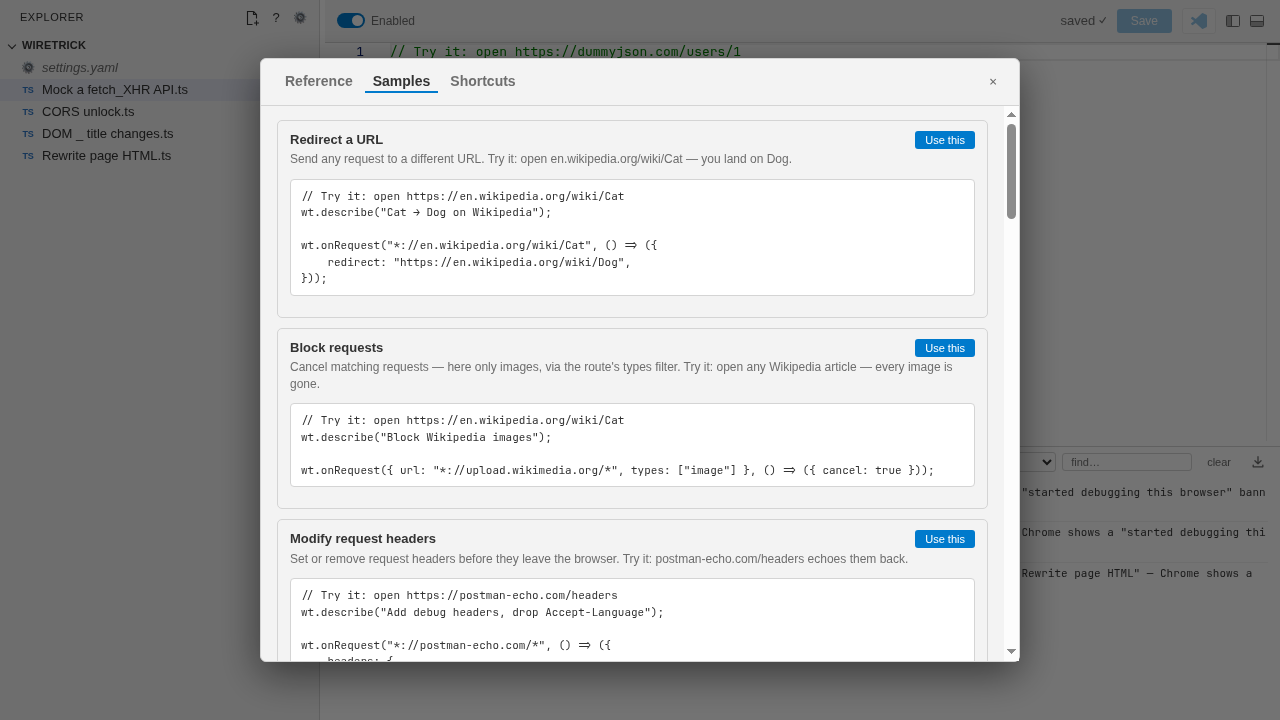
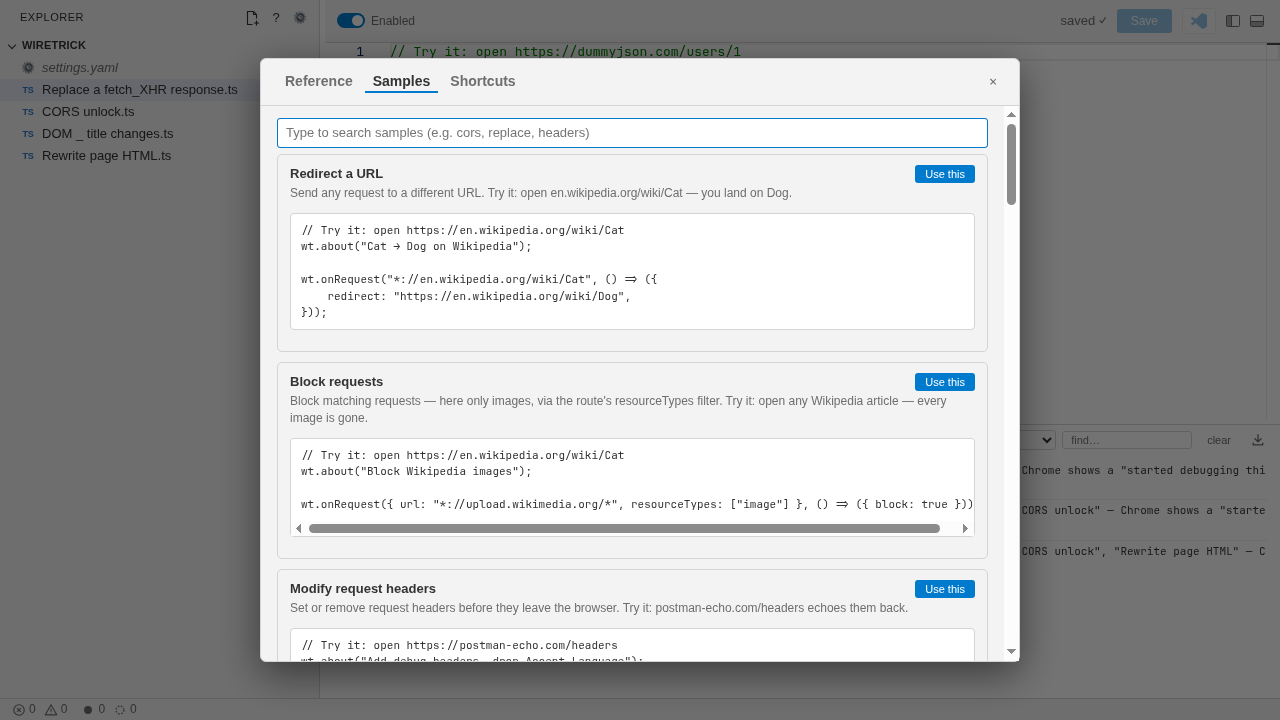
Align samples, tests and doc screenshots with renamed terms
- Block sample: "Block matching requests … resourceTypes filter"
- Replace sample: wt.about("Replace the users API response")
- MV3 e2e expects "debugger strategy active"; test labels say library
- screenshots seed the "debugger" strategy; regenerate docs/shots

diff --git a/test/mv3.e2e.ts b/test/mv3.e2e.ts
@@ -567,7 +567,7 @@ try {
     await mgr.evaluate(() => new Promise((r) => chrome.runtime.sendMessage({ type: "deleteScript", id: "s_doccold" }, r)));
     const logText = await mgr.evaluate(() => [...document.querySelectorAll("#log-entries .log-line")].map((l) => l.textContent || "").join("\n"));
     if (process.env.DBG) console.log(logText.split("\n").filter((l: string) => /Tier C|cdp|debugger|attach|requestPaused/i.test(l)).slice(-40).join("\n"));
-    check("debugger tier activation is logged", logText.includes("debugger tier active"));
+    check("debugger strategy activation is logged", logText.includes("debugger strategy active"));
     for (const id of ["s_respond", "s_cdpx", "s_auto", "s_procx", "s_proxy2", "s_race"]) {
         await mgr.evaluate((id: string) => new Promise((r) => chrome.runtime.sendMessage({ type: "deleteScript", id }, r)), id);
     }
@@ -678,7 +678,7 @@ try {
     const byName = new Map<string, any>((imported || []).map((s: any) => [s.meta.name, s]));
     check("import re-detects routes (MV3 hook + api-interceptor active)", byName.get("MV3 hook")?.meta?.active === true && byName.get("api-interceptor")?.meta?.active === true, JSON.stringify((imported || []).map((s: any) => [s.meta.name, s.meta.active])));
     check("import restores params (api-interceptor.label)", !!byName.get("api-interceptor")?.paramDefs?.label);
-    check("import keeps utilities as utilities (api-lib)", byName.get("api-lib")?.meta?.active === false);
+    check("import keeps libraries as libraries (api-lib)", byName.get("api-lib")?.meta?.active === false);
     check("import restores enabled state", byName.get("MV3 hook")?.enabled === true && byName.get("api-interceptor")?.enabled === true);
     check("partial import skips the unticked script", !!skipName && !byName.has(skipName), String(skipName));
     check("import status shows success", (await mgr.evaluate(() => document.querySelector("#editor-status")?.textContent ?? "")).includes("imported"));

diff --git a/test/utilityParams.test.ts b/test/utilityParams.test.ts
@@ -34,12 +34,12 @@ if (p.on) wt.onRequest("*://example.com/*", () => ({ block: true }));
 
 const get = async (id: string) => (await listScripts()).find((s) => s.id === id)!;
 
-describe("utility scripts with params", () => {
+describe("library scripts with params", () => {
     beforeEach(() => {
         for (const k of Object.keys(store)) delete store[k];
     });
 
-    it("stores a param-gated utility as a utility with its paramDefs", async () => {
+    it("stores a param-gated library as a library with its paramDefs", async () => {
         const s = await saveScript({ id: "g", name: "gate", code: GATE });
         expect(s.error).toBeNull();
         expect(s.meta.active).toBe(false);
@@ -73,7 +73,7 @@ describe("utility scripts with params", () => {
         expect((await analyzeScripts(scripts, { g: { on: true } })).get("g")!.meta.active).toBe(true);
     });
 
-    it("settings.yaml lists the utility's params and gains `enabled` once it's a script", async () => {
+    it("settings.yaml lists the library's params and gains `enabled` once it's a script", async () => {
         await saveScript({ id: "g", name: "gate", code: GATE });
         let st = await currentSettingsState();
         expect(st.scripts.find((x) => x.name === "gate")).toMatchObject({ declared: false, defs: { on: { type: "boolean" } } });
@@ -84,7 +84,7 @@ describe("utility scripts with params", () => {
         expect(st.scripts.find((x) => x.name === "gate")?.declared).toBe(true);
     });
 
-    it("importers keep working when a utility flips (its exports stay importable)", async () => {
+    it("importers keep working when a library flips (its exports stay importable)", async () => {
         await saveScript({ id: "g", name: "gate", code: GATE });
         const m = await saveScript({ id: "m", name: "main", code: `import { helper } from "./gate";\nwt.onRequest("*://a.test/*", () => { helper(); });` });
         expect(m.error).toBeNull();

diff --git a/test/popup.test.tsx b/test/popup.test.tsx
@@ -38,13 +38,13 @@ const script = (id: string, name: string, extra: Partial<ScriptInfo> = {}): Scri
 const names = (c: Element) => [...c.querySelectorAll("#script-list .script-name")].map((n) => n.textContent);
 
 describe("Popup", () => {
-    it("lists active scripts and hides utilities without params", async () => {
+    it("lists active scripts and hides libraries without params", async () => {
         const { container } = render(<Popup api={fakeApi([script("a", "Alpha"), script("l", "lib", { meta: { name: "lib", active: false } })])} />);
         await waitFor(() => expect(names(container)).toEqual(["Alpha"]));
         expect(container.querySelector("#empty")).toBeNull();
     });
 
-    it("lists utilities that declare params, without an enabled switch, with editable params", async () => {
+    it("lists libraries that declare params, without an enabled switch, with editable params", async () => {
         const defs = { on: { type: "boolean", default: false, description: "Turn interception on" } } as any;
         let values: any = { on: false };
         const util = (active: boolean) => script("u", "gate", { meta: { name: "gate", active }, paramDefs: defs });

diff --git a/src/ui/samples.ts b/src/ui/samples.ts
@@ -22,7 +22,7 @@ wt.onRequest("*://en.wikipedia.org/wiki/Cat", () => ({
     },
     {
         name: "Block requests",
-        blurb: "Cancel matching requests — here only images, via the route's types filter. Try it: open any Wikipedia article — every image is gone.",
+        blurb: "Block matching requests — here only images, via the route's resourceTypes filter. Try it: open any Wikipedia article — every image is gone.",
         code: `// Try it: open https://en.wikipedia.org/wiki/Cat
 wt.about("Block Wikipedia images");
 
@@ -91,7 +91,7 @@ wt.onDom("*://example.org/*", () => {
         name: "Replace a fetch/XHR response",
         blurb: "Replace a JSON API response; :id in the route is read back as ctx.groups.id. Try it: open dummyjson.com/users/1.",
         code: `// Try it: open https://dummyjson.com/users/1
-wt.about("Mock the users API");
+wt.about("Replace the users API response");
 
 wt.replaceResponse("*://dummyjson.com/users/:id", (ctx) => ({
     id: Number(ctx.groups.id),

diff --git a/src/ui/manager.html b/src/ui/manager.html
@@ -257,7 +257,7 @@
                 <p id="help-empty" class="muted" hidden>No matching sections.</p>
             </div>
             <div class="dialog-body" id="samples-body" data-pane="samples" hidden>
-                <input id="samples-filter" class="help-filter" type="search" placeholder="Type to search samples (e.g. cors, mock, headers)" autocomplete="off" spellcheck="false">
+                <input id="samples-filter" class="help-filter" type="search" placeholder="Type to search samples (e.g. cors, replace, headers)" autocomplete="off" spellcheck="false">
                 <div id="samples-list"></div>
                 <p id="samples-empty" class="muted" hidden>No matching samples.</p>
             </div>

diff --git a/scripts/screenshots.ts b/scripts/screenshots.ts
@@ -32,7 +32,7 @@ try {
     await mgr.goto(`chrome-extension://${EXT_ID}/manager.html`);
     const send = (msg: any) => mgr.evaluate((m: any) => new Promise<any>((r) => chrome.runtime.sendMessage(m, r)), msg);
     // no local helper here: use the debugger strategy so the log shows real activity
-    await mgr.evaluate(() => new Promise<void>((r) => chrome.storage.local.set({ resStrategy: "cdp" }, () => r())));
+    await mgr.evaluate(() => new Promise<void>((r) => chrome.storage.local.set({ resStrategy: "debugger" }, () => r())));
 
     for (const name of SHOWN) {
         const s = SAMPLES.find((x) => x.name === name)!;

diff --git a/test/scriptApi.test.ts b/test/scriptApi.test.ts
@@ -69,7 +69,7 @@ describe("script API", () => {
         expect(compileScript(`wt.params({ a: { type: "number" } }); wt.defineParam("a", { type: "number" });`).error).toMatch(/already defined/);
     });
 
-    it("a script without handlers is a utility (params allowed)", () => {
+    it("a script without handlers is a library (params allowed)", () => {
         const c = compileScript(`wt.params({ n: { type: "number", default: 2 } });\nexport const helper = () => 42;`);
         expect(c.error).toBeNull();
         expect(c.meta.active).toBe(false);

diff --git a/test/saveResilience.test.ts b/test/saveResilience.test.ts
@@ -53,7 +53,7 @@ describe("saveScript sandbox-failure resilience", () => {
         compileResult.paramDefs = {};
         compileResult.error = "sandbox compile failed";
         const again = await saveScript({ id, code: "x" });
-        expect(again.meta.active).toBe(true); // not corrupted to a utility
+        expect(again.meta.active).toBe(true); // not corrupted to a library
         expect(again.meta.name).toBe("Mine"); // name kept
         expect(again.paramDefs?.p).toBeTruthy();
         expect(good.meta.active).toBe(true);
